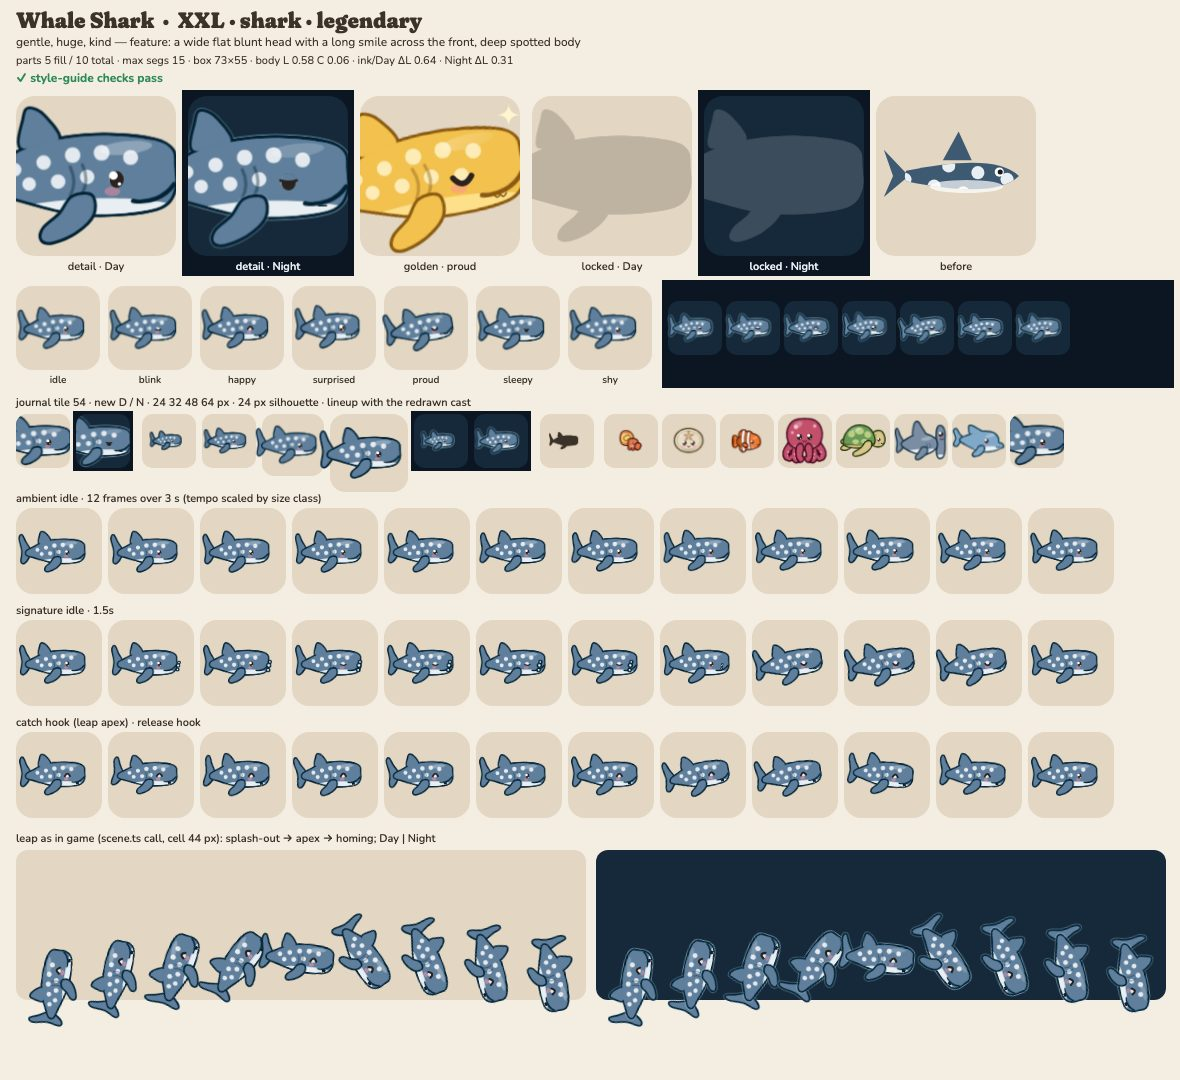
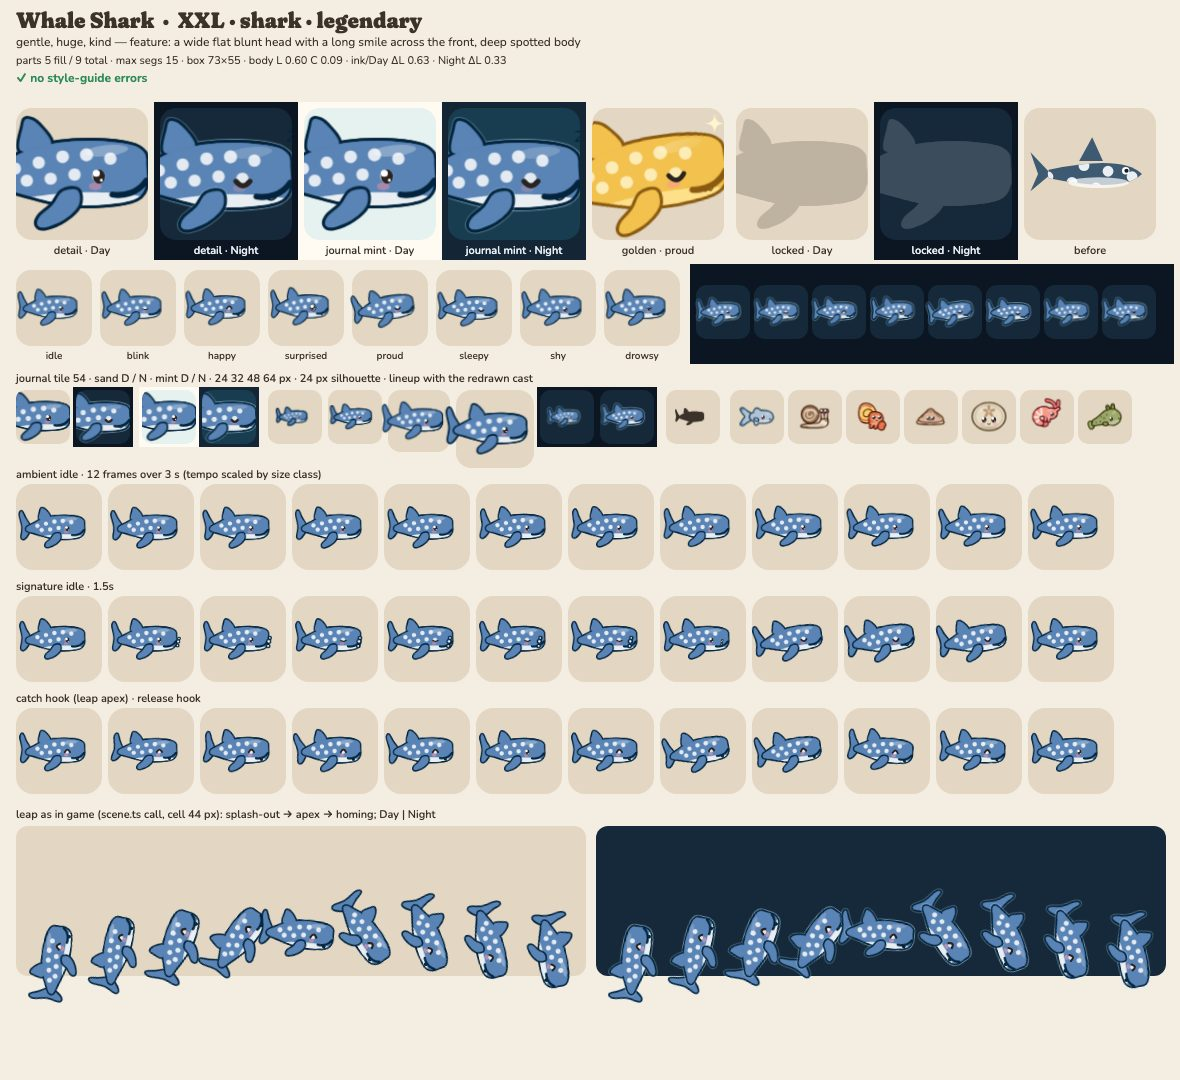
art: whaleshark lint pass (ADR 0011)
Spots >= 6 u, mouth line 3 u, hairline gills dropped, body chroma 0.089.
Head-anchored crop keeps the mouth. Lint-clean; closest clownfish 0.65.

diff --git a/src/render/art/species/whaleshark.ts b/src/render/art/species/whaleshark.ts
@@ -2,7 +2,7 @@
  * Whale Shark — SHARK class, profile, XXL (the tile crops its tail on purpose, R27/R28).
  * Silhouette: a huge deep body behind a wide, flat, blunt head with a long gentle mouth across the
  * front (R10: the broad box of a head and the wide smile), small dorsal, crescent tail.
- * Dark identity lifted (R16): slate blue at L 0.58, white belly, an authored grid of white spots.
+ * Dark identity lifted (R16): slate blue at L 0.60 (chroma 0.09), white belly, an authored grid of white spots.
  * Personality: gentle, huge, kind. Signature: an enormous slow blink and a tiny smile while three
  * plankton specks drift into its mouth.
  */
@@ -71,12 +71,12 @@ const spots = join(
   circle(28, -9, 3.1),
   circle(16, -11, 3.3),
   circle(4, -10, 3.2),
-  circle(-8, -7, 3),
-  circle(-20, -4, 2.8),
-  circle(10, -1, 3),
-  circle(-2, 1, 3),
-  circle(-14, 2, 2.8),
-  circle(22, 0, 2.9),
+  circle(-8, -7, 3.1),
+  circle(-20, -4, 3.1),
+  circle(10, -1, 3.1),
+  circle(-2, 1, 3.1),
+  circle(-14, 2, 3.1),
+  circle(22, 0, 3.1),
 );
 // the long mouth across the front of the flat head (a part, not the rig mouth: it's 3× wider)
 const mouthLine = 'M46 2C42 8 35 10 29 9';
@@ -88,7 +88,7 @@ export default defineArt({
   size: 'XXL',
   feature: 'a wide flat blunt head with a long smile across the front, deep spotted body',
   personality: ['gentle', 'huge', 'kind'],
-  palette: { body: '#5F7F9C', accent: '#F2F6F9', belly: '#E8EEF2' },
+  palette: { body: '#5A84B5', accent: '#F2F6F9', belly: '#E8EEF2' },
   groups: [
     // the tail is `extra`: outside the body box, so the XXL tile crops it (R28 "it doesn't fit")
     { id: 'tail', pivot: [-31, 0], parts: [{ d: tail, role: 'body', extra: true }] },
@@ -100,8 +100,7 @@ export default defineArt({
         { d: head, role: 'body' },
         { d: ellipse(12, 16, 40, 8, -2), role: 'belly', kind: 'pattern' },
         { d: spots, role: 'accent', kind: 'pattern', alpha: 0.9 },
-        { d: mouthLine, role: 'ink', kind: 'line', w: 1.8 },
-        { d: 'M8 -6C10 -2 10 2 8 6M3 -5C5 -1 5 3 3 7', role: 'ink', kind: 'line', w: 1.3, alpha: 0.4 },
+        { d: mouthLine, role: 'ink', kind: 'line', w: 3 },
       ],
     },
     { id: 'finA', pivot: [8, 10], parts: [{ d: pectoral, role: 'body' }] },

diff --git a/docs/art/notes/fleet-5.md b/docs/art/notes/fleet-5.md
@@ -144,3 +144,9 @@ Species: hammerhead, dolphin, whaleshark, angler, otter, goldturtle. Sheets in `
   clownfish (IoU 0.74, fail); (2) longer, slimmer body: clownfish 0.63, hammerhead 0.66, flounder
   0.68. Lint-clean.
 - **Self-grade:** A. Same joyful dolphin, now big in the tile with its flukes past the edge.
+
+## whaleshark — A (exemplar), lint only
+- **Fixes:** spots ≥ 6.2 units (R18W), mouth line 3 units (R2L), the hairline gill marks dropped,
+  body `#5A84B5` (chroma 0.089, R16S; L 0.60). The kit's head-anchored XXL crop now keeps the long
+  mouth in frame. Lint-clean; closest clownfish 0.65.
+- **Self-grade:** A. Unchanged in spirit; slightly bluer than the slate of round 1.
